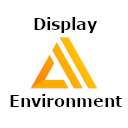
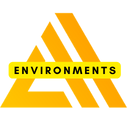
Check changelog

diff --git a/src/extension.ts b/src/extension.ts
@@ -2,13 +2,16 @@
 
 import { posix } from "path";
 import * as vscode from "vscode";
+import * as cp from "child_process";
 
 let myStatusBarItem: vscode.StatusBarItem;
+let checkoutEnvUsingStatusBar = false;
 
 export async function activate(context: vscode.ExtensionContext) {
   if (!vscode.workspace.workspaceFolders) {
     vscode.window.showInformationMessage("No folder or workspace opened");
   } else {
+    // Get local file paths
     const folderUri = vscode.workspace.workspaceFolders[0].uri;
     const localEnvFileUri = folderUri.with({
       path: posix.join(
@@ -28,101 +31,34 @@ export async function activate(context: vscode.ExtensionContext) {
       100
     );
     myStatusBarItem.command = myCommandId;
+    myStatusBarItem.tooltip = "Testing Hover";
     context.subscriptions.push(myStatusBarItem);
     updateStatusBarItem(await getLocalEnv(localEnvFileUri));
 
-    //Subscribe on statusbar Click
+    //Show Quick Pick When clicking on status
     context.subscriptions.push(
       vscode.commands.registerCommand(myCommandId, async () => {
-        const teamProviderEnvironments = await getTeamProviderEnvironments(
-          teamProviderFile
-        );
-        const currentEnvironment = await getLocalEnv(localEnvFileUri);
-        const options: {
-          label: string;
-          description?: string;
-          picked?: boolean;
-          kind?: number;
-        }[] = [];
-        options.push({
-          label: `Amplify Environments (${teamProviderEnvironments.length})`,
-          kind: vscode.QuickPickItemKind.Separator,
-        });
-        teamProviderEnvironments.forEach((env) => {
-          if (env === currentEnvironment) {
-            options.push({
-              label: env,
-              description: "Current Environment",
-              picked: true,
-            });
-          } else {
-            options.push({
-              label: env,
-            });
-          }
-        });
-        options.push({
-          label: `$(gist-new) Add Amplify Environment`,
-        });
-        options.push({
-          label: `Amplify Sync`,
-          kind: vscode.QuickPickItemKind.Separator,
-        });
-        options.push({
-          label:  `$(refresh) Amplify Status`,
-        });
-        options.push({
-          label: `$(arrow-down) Amplify Pull`,
-        });
-        options.push({
-          label:  `$(arrow-up) Amplify Push`,
-        });
-        
-      
-
-        const quickPick = vscode.window.createQuickPick();
-        quickPick.title = "Amplify Environments";
-        quickPick.placeholder =
-          "Change environment or add a new environment";
-        quickPick.items = options;
-        quickPick.onDidChangeSelection((selection) => {
-          const envListIndex = options.findIndex(
-            (option) => option.label === selection[0].label
-          );
-          console.log(envListIndex, options.length);
-          if (envListIndex === options.length - 5) {
-            createNewAmplifyEnv(options);
-          }  else if (envListIndex === options.length - 3) {
-            amplifyStatus();
-          }else if (envListIndex === options.length - 2) {
-            amplifyPull();
-          } else if (envListIndex === options.length - 1) {
-            amplifyPush();
-          } else if (selection[0].picked === undefined && selection[0].kind === undefined) {
-            amplifyEnvCheckout(selection[0].label);
-          }
-          quickPick.dispose();
-        });
-        quickPick.show();
+        showQuickPick(teamProviderFile, localEnvFileUri, folderUri);
       })
     );
 
-    // Look for changes in the ENV file
+    // Look for changes in the ENV file if the user uses "amplify checkout env"
     context.subscriptions.push(
       vscode.workspace
         .createFileSystemWatcher("**/local-env-info.json")
         .onDidChange(async (file) => {
           if (file.path === localEnvFileUri.path) {
-            vscode.window.showInformationMessage(
-              `Your are working in Amplify Environment: ${await getLocalEnv(
-                localEnvFileUri
-              )}`
-            );
-            updateStatusBarItem(await getLocalEnv(localEnvFileUri));
+            if (!checkoutEnvUsingStatusBar) {
+              vscode.window.showInformationMessage(
+                `Your are working in Amplify Environment: ${await getLocalEnv(
+                  localEnvFileUri
+                )}`
+              );
+              updateStatusBarItem(await getLocalEnv(localEnvFileUri));
+            }
           }
         })
     );
-
   }
 }
 
@@ -132,6 +68,84 @@ async function getLocalEnv(localEnvFileUri: any): Promise<string> {
   const json = JSON.parse(readStr);
   const env = json.envName;
   return env;
+}
+async function showQuickPick(
+  teamProviderFile: any,
+  localEnvFileUri: any,
+  folderUri: any
+) {
+  const teamProviderEnvironments = await getTeamProviderEnvironments(
+    teamProviderFile
+  );
+  const currentEnvironment = await getLocalEnv(localEnvFileUri);
+  const options: {
+    label: string;
+    description?: string;
+    picked?: boolean;
+    kind?: number;
+  }[] = [];
+  options.push({
+    label: `Amplify Environments (${teamProviderEnvironments.length})`,
+    kind: vscode.QuickPickItemKind.Separator,
+  });
+  // List Environments as options and "highlight" the current environment
+  teamProviderEnvironments.forEach((env) => {
+    if (env === currentEnvironment) {
+      options.push({
+        label: env,
+        description: "Current Environment",
+        picked: true,
+      });
+    } else {
+      options.push({
+        label: env,
+      });
+    }
+  });
+  options.push({
+    label: `$(gist-new) Add Amplify Environment`,
+  });
+  // List Amplify CLI Commands as Options
+  options.push({
+    label: `Amplify Sync`,
+    kind: vscode.QuickPickItemKind.Separator,
+  });
+  options.push({
+    label: `$(refresh) Amplify Status`,
+  });
+  options.push({
+    label: `$(arrow-down) Amplify Pull`,
+  });
+  options.push({
+    label: `$(arrow-up) Amplify Push`,
+  });
+
+  // Click Events on quick pick options
+  const quickPick = vscode.window.createQuickPick();
+  quickPick.title = "AWS Amplify Environment";
+  quickPick.placeholder = "Change environment or add a new environment";
+  quickPick.items = options;
+  quickPick.onDidChangeSelection(async (selection) => {
+    const envListIndex = options.findIndex(
+      (option) => option.label === selection[0].label
+    );
+    if (envListIndex === options.length - 5) {
+      createNewAmplifyEnv(options);
+    } else if (envListIndex === options.length - 3) {
+      amplifyStatus();
+    } else if (envListIndex === options.length - 2) {
+      amplifyPull();
+    } else if (envListIndex === options.length - 1) {
+      amplifyPush();
+    } else if (
+      selection[0].picked === undefined &&
+      selection[0].kind === undefined
+    ) {
+      amplifyEnvCheckout(selection[0].label, localEnvFileUri, folderUri.path);
+    }
+    quickPick.dispose();
+  });
+  quickPick.show();
 }
 
 async function getTeamProviderEnvironments(
@@ -148,47 +162,106 @@ async function updateStatusBarItem(env: String): Promise<void> {
   myStatusBarItem.show();
 }
 
-function amplifyEnvCheckout(env: string) {
-  const terminal = vscode.window.createTerminal('Amplify Extension Terminal');
-     terminal.sendText(`amplify env checkout ${env}`);
-     terminal.show();
+async function amplifyEnvCheckout(
+  env: string,
+  localEnvFileUri: vscode.Uri,
+  folderUriPath: string
+) {
+  checkoutEnvUsingStatusBar = true;
+  const startDateTime = new Date(Date.now()).toString();
+  console.log("Amplify Checkout Env Started: ", startDateTime);
+  const cmd = `cd ${folderUriPath}; amplify env checkout ${env}`;
+
+  // Change the environment to a spinning animation in the status bar
+  const statusBarChangingEnv = `$(aws-amplify) Amplify Environment: $(sync~spin)`;
+  myStatusBarItem.text = statusBarChangingEnv;
+
+  // Show Progress Notification and close it when the child process emits Close
+  vscode.window.withProgress(
+    {
+      location: vscode.ProgressLocation.Notification,
+      title: `Changing Local Amplify Environment from ${await getLocalEnv(
+        localEnvFileUri
+      )} to ${env}`,
+      cancellable: true,
+    },
+    () => {
+      const p = new Promise<void>((resolve, reject) => {
+        cp.exec(cmd, (err, stdout) => {
+          if (err) {
+            vscode.window.showInformationMessage(err.toString());
+            return reject(err);
+          }
+          console.log(stdout);
+        }).on("close", async (data) => {
+          console.log(data);
+          myStatusBarItem.text = `$(aws-amplify) Amplify Environment: ${await getLocalEnv(
+            localEnvFileUri
+          )}`;
+          checkoutEnvUsingStatusBar = false;
+          const closeDateTime = new Date(Date.now()).toString();
+          console.log("close:", closeDateTime);
+          resolve();
+        });
+      });
+      return p;
+    }
+  );
 }
 
 async function createNewAmplifyEnv(options: any) {
-  /*
-Add env from Amplify Extension
   const newEnv = await vscode.window.showInputBox({
     placeHolder: "Name your new Amplify Environment",
   });
- if(options.find((option: { label: string | undefined; }) => option.label === newEnv)){
-   console.log(newEnv, " Already Exists");
- } else {
-   console.log("Create New Env ", newEnv);
-   const terminal = vscode.window.createTerminal();
-   terminal.show();
-   terminal.sendText(`amplify env add`);
- }
- */
- const terminal = vscode.window.createTerminal('Amplify Extension Terminal');
-  terminal.show();
-  terminal.sendText(`amplify env add`);
-  // Amplify Create new Env
+  if (
+    options.find(
+      (option: { label: string | undefined }) => option.label === newEnv
+    )
+  ) {
+    console.log(newEnv, " Already Exists");
+    vscode.window.showInformationMessage(`The ${newEnv} environment exists already`);
+  } else {
+    console.log("Create New Env ", newEnv);
+    if (vscode.window.activeTerminal?.name !== "Amplify Extension Terminal") {
+      const terminal = vscode.window.createTerminal(
+        "Amplify Extension Terminal"
+      );
+      terminal.show();
+      terminal.sendText(`amplify env add ${newEnv}`);
+    } else {
+      vscode.window.activeTerminal.sendText(`amplify env add ${newEnv}`);
+    }
+  }
 }
-function amplifyPull(){
-  const terminal = vscode.window.createTerminal('Amplify Extension Terminal');
-  terminal.show();
-  terminal.sendText(`amplify pull`);
+function amplifyPull() {
+  if (vscode.window.activeTerminal?.name !== "Amplify Extension Terminal") {
+    const terminal = vscode.window.createTerminal("Amplify Extension Terminal");
+    terminal.show();
+    terminal.sendText(`amplify pull`);
+  } else {
+    vscode.window.activeTerminal.sendText(`amplify pull`);
+  }
 }
 
-function amplifyPush(){
-  const terminal = vscode.window.createTerminal('Amplify Extension Terminal');
-  terminal.show();
-  terminal.sendText(`amplify push`);
+function amplifyPush() {
+  if (vscode.window.activeTerminal?.name !== "Amplify Extension Terminal") {
+    const terminal = vscode.window.createTerminal("Amplify Extension Terminal");
+    terminal.show();
+    terminal.sendText(`amplify push`);
+  } else {
+    vscode.window.activeTerminal.sendText(`amplify push`);
+  }
 }
-function amplifyStatus(){
-  const terminal = vscode.window.createTerminal('Amplify Extension Terminal');
-  terminal.show();
-  terminal.sendText(`amplify status`);
+
+function amplifyStatus() {
+  // vscode.window.terminals.find;
+  if (vscode.window.activeTerminal?.name !== "Amplify Extension Terminal") {
+    const terminal = vscode.window.createTerminal("Amplify Extension Terminal");
+    terminal.show();
+    terminal.sendText(`amplify status`);
+  } else {
+    vscode.window.activeTerminal.sendText(`amplify status`);
+  }
 }
 
 // this method is called when your extension is deactivated

diff --git a/README.md b/README.md
@@ -1,6 +1,6 @@
-# Display Current AWS Amplify Environment
+# AWS Amplify Environments
 
-This extension displays the AWS Amplify environment. It makes it easy for you to see which environment you are currently working in.
+This extension displays the current name of the local Amplify environment in the status bar of VS code. If you click on the extension in the status bar, you can change the environment graphically. This extension also notifies you with an information message when you change the environment.
 
 ## Setup
 
@@ -12,8 +12,4 @@ The extension looks for changes in this file and displays the env name from this
 
 ## Use
 
-This extension displays the current Amplify Env name in the status bar of VS code. When you change the Amplify environment, this extension also notifies you with an informational message.
-
-![listing](./images//listingView.png)
-![statusBar](./images/statusbar.png) ![message](./images/message.png) 
-
+![demo1](./images/demo1.gif)

diff --git a/CHANGELOG.md b/CHANGELOG.md
@@ -18,4 +18,17 @@ The format is based on [Keep a Changelog](https://keepachangelog.com/en/1.0.0/),
 ### Fixed
 
 - Removed Code Duplication
-  
+
+## [1.0.0] - 2022-05-23
+
+### Added
+
+- Amplify Icon in the status bar
+- Progress Notification when changing environment
+- Child process when changing environment
+- Ability to add a new env from the extension
+
+### Changed
+
+- The Logo for the VS Code extension
+- Changed the name from Display AWS Amplify Environment to AWS Amplify Enironment
